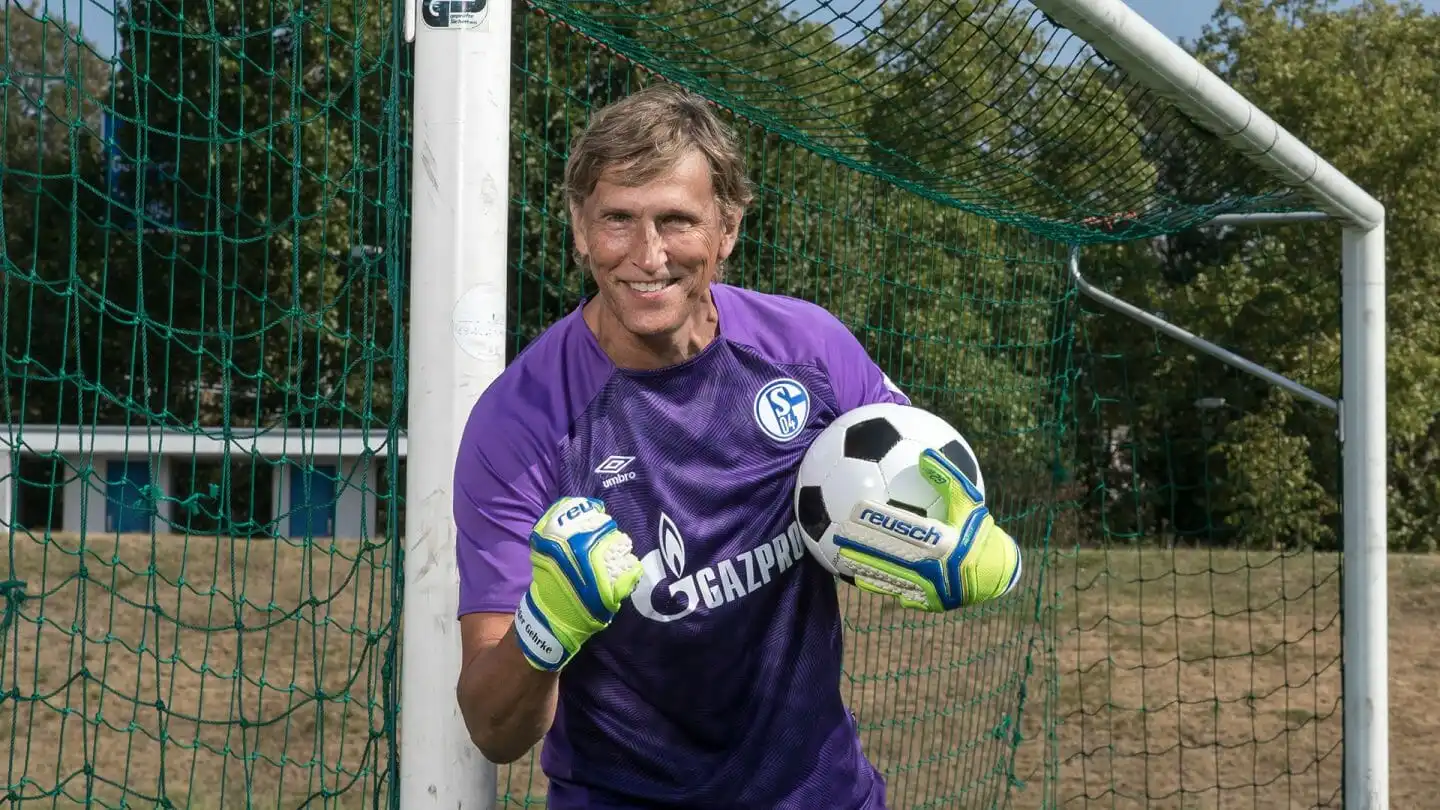
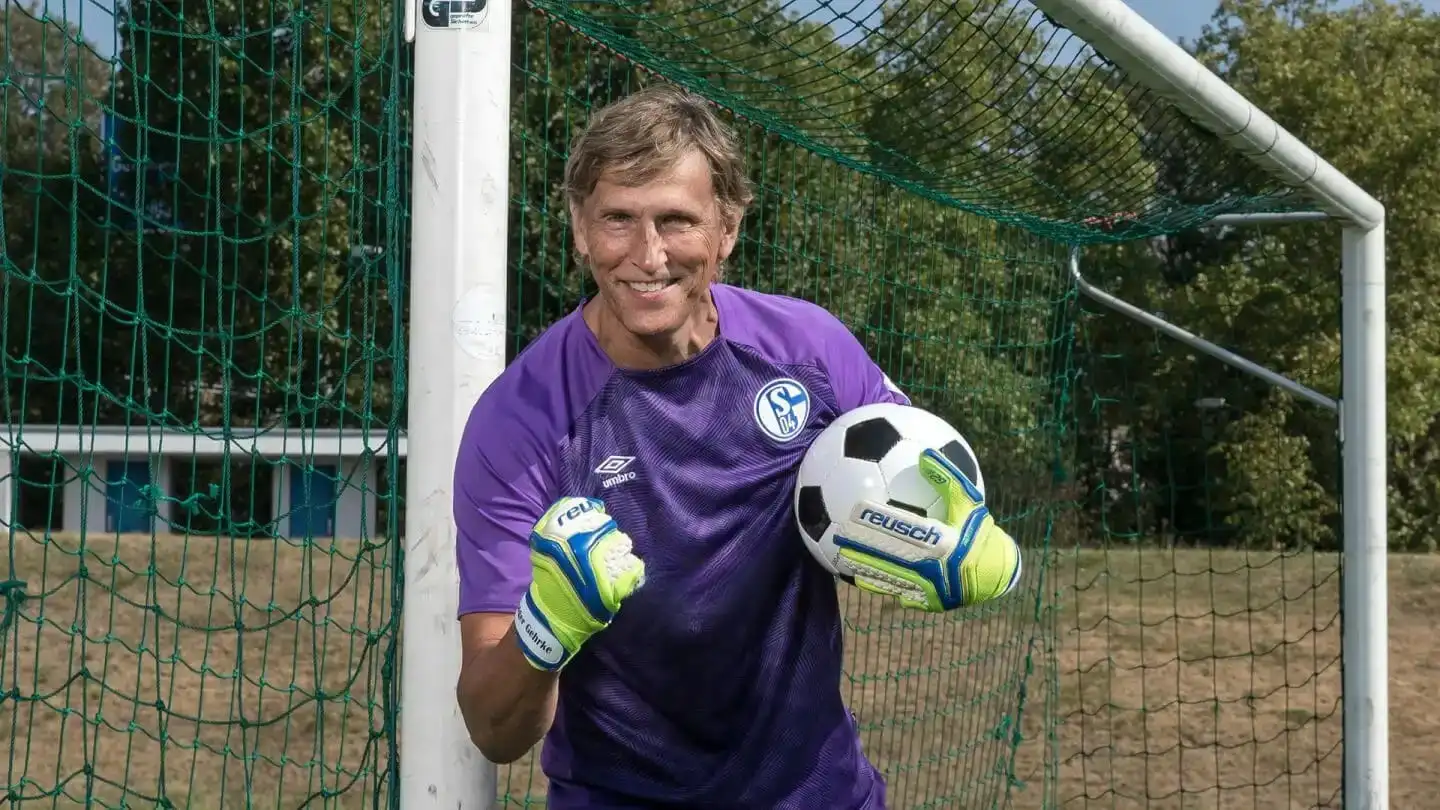
fix: remove gazprom from start img

Changed region(s): [[0.4375, 0.6173, 0.5625, 0.7716]]

diff --git a/trainer.html b/trainer.html
@@ -111,10 +111,10 @@
                   <img loading="lazy" src="assets/images/holger-trainer/schalke/holger-mit-dfb-pokal-trainer-alleine.webp" class="img-fluid rounded custom-img custom-img-top" alt="image">
                 </div>
                 <div class="col-md-4 mt-3 col-lg-4">
-                  <img loading="lazy" src="assets/images/holger-trainer/schalke/schalke-am-schreien.jpg" class="img-fluid rounded custom-img" alt="image">
+                  <img loading="lazy" src="assets/images/holger-trainer/schalke/holger-trainer-freut-sich-schalke.webp" class="img-fluid rounded custom-img custom-img-top" alt="image">
                 </div>
                 <div class="col-md-4 mt-3 col-lg-4">
-                  <img loading="lazy" src="assets/images/holger-trainer/ungarn/ball-werfen-ungarn.jpg" class="img-fluid rounded custom-img" alt="image">
+                  <img loading="lazy" src="assets/images/holger-trainer/ungarn/holger-em-2016-ungarn-aufwaermen.webp" class="img-fluid rounded custom-img custom-img-top" alt="image">
                 </div>
                 <div class="col-md-4 mt-3 col-lg-4">
                   <img loading="lazy" src="assets/images/holger-trainer/ungarn/holger-em-2016-ungarn-selfie-teambus.webp" class="img-fluid rounded custom-img" alt="image">
@@ -126,7 +126,7 @@
                   <img loading="lazy" src="assets/images/holger-trainer/keeperday/holger-keeperday.webp" class="img-fluid rounded custom-img" alt="image">
                 </div>
                 <div class="col-md-4 mt-3 col-lg-4">
-                  <img loading="lazy" src="assets/images/holger-trainer/koeln/koeln-mit-handschuhen.webp" class="img-fluid rounded custom-img" alt="image">
+                  <img loading="lazy" src="assets/images/holger-trainer/hertha/holger-trainer-schalke-hertha.webp" class="img-fluid rounded custom-img" alt="image">
                 </div>
                 <div class="col-md-4 mt-3 col-lg-4">
                   <img loading="lazy" src="assets/images/holger-trainer/hertha/holger-jogging-trainer-mit-hertha.webp" class="img-fluid rounded custom-img" alt="image">
@@ -167,10 +167,10 @@
                    <img loading="lazy" src="assets/images/holger-trainer/schalke/holger-mit-dfb-pokal-trainer-alleine.webp" class="d-block w-100 rounded custom-img custom-img-top" alt="Holger Trainer Bild 5">
                  </div>
                  <div class="carousel-item">
-                   <img loading="lazy" src="assets/images/holger-trainer/schalke/schalke-am-schreien.jpg" class="d-block w-100 rounded custom-img" alt="Holger Trainer Bild 6">
+                   <img loading="lazy" src="assets/images/holger-trainer/schalke/holger-trainer-freut-sich-schalke.webp" class="d-block w-100 rounded custom-img-top custom-img" alt="Holger Trainer Bild 6">
                  </div>
                  <div class="carousel-item">
-                   <img loading="lazy" src="assets/images/holger-trainer/ungarn/ball-werfen-ungarn.jpg" class="d-block w-100 rounded custom-img" alt="Holger Trainer Bild 7">
+                   <img loading="lazy" src="assets/images/holger-trainer/ungarn/holger-em-2016-ungarn-aufwaermen.webp" class="d-block w-100 rounded custom-img-top custom-img" alt="Holger Trainer Bild 7">
                  </div>
                  <div class="carousel-item">
                    <img loading="lazy" src="assets/images/holger-trainer/ungarn/holger-em-2016-ungarn-selfie-teambus.webp" class="d-block w-100 rounded custom-img" alt="Holger Trainer Bild 8">
@@ -182,7 +182,7 @@
                    <img loading="lazy" src="assets/images/holger-trainer/keeperday/holger-keeperday.webp" class="d-block w-100 rounded custom-img" alt="Holger Trainer Bild 11">
                  </div>
                  <div class="carousel-item">
-                   <img loading="lazy" src="assets/images/holger-trainer/koeln/koeln-mit-handschuhen.webp" class="d-block w-100 rounded custom-img" alt="Holger Trainer Bild 12">
+                   <img loading="lazy" src="assets/images/holger-trainer/hertha/holger-trainer-schalke-hertha.webp" class="d-block w-100 rounded custom-img" alt="Holger Trainer Bild 12">
                  </div>
                  <div class="carousel-item">
                    <img loading="lazy" src="assets/images/holger-trainer/hertha/holger-jogging-trainer-mit-hertha.webp" class="d-block w-100 rounded custom-img" alt="Holger Trainer Bild 15">
